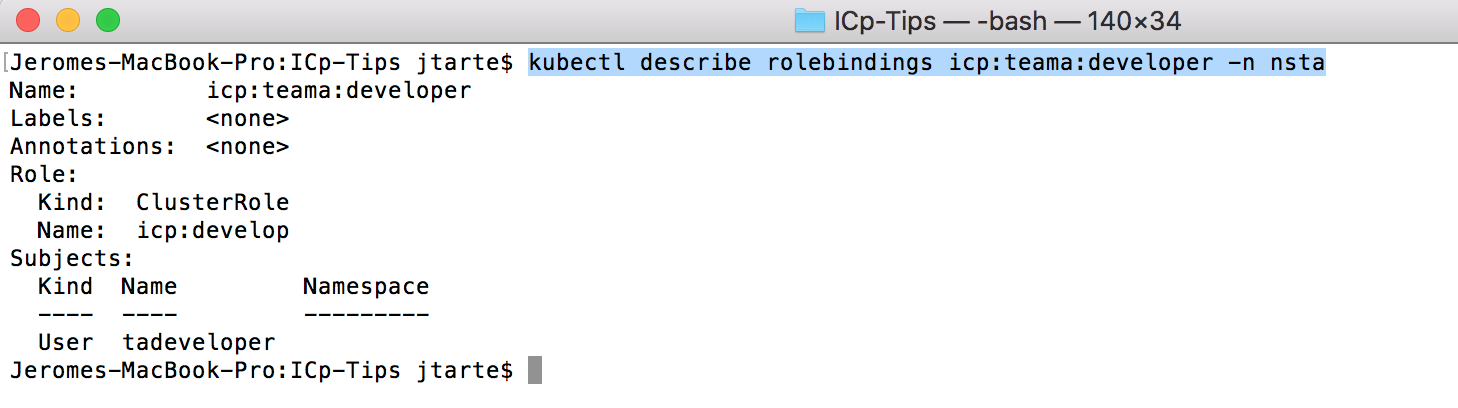
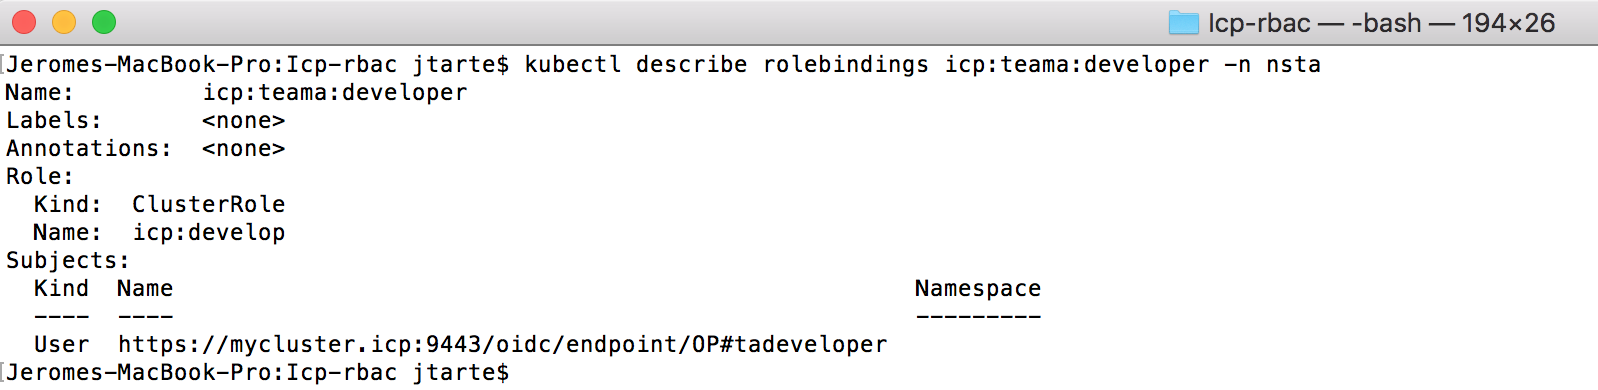
update permission proc

diff --git a/RBAC/provide_additional_priviledges_to_user.md b/RBAC/provide_additional_priviledges_to_user.md
@@ -1,10 +1,10 @@
-# Provide additional priviledges to an user
+# Provide additional permissions to an user
 
-IBM Cloud private (and Kubernetes) comes with a RBAC mechanism. So the users of the plaform have some priviledges, depending of their profiles.
-If, for some functional reasons, you need to grant additional priviledges to an user, it is possible by using roles (`clusterroles` or `roles) and binding (`clusterrolebindings` and `rolebindings`).
+IBM Cloud private (and Kubernetes) comes with a RBAC mechanism. So the users of the platform have some permissions, depending of their profiles.
+If, for some functional reasons, you need to grant additional permissions to an user, it is possible by using roles (`clusterroles` or `roles) and binding (`clusterrolebindings` and `rolebindings`).
 
 In this entry, I cover the functional case where
-a developer needs to push images in the ICp image registry but have no other priviledges on ICp platorm except the view.
+a developer needs to push images in the ICp image registry but have no other permissions on ICp platform except the view.
 
 1. Create an user with `viewer` profile.
 ![Users from team view](./images/rbac_add_priviledges_1.png)
@@ -17,14 +17,14 @@ a developer needs to push images in the ICp image registry but have no other pri
   metadata:
     name: icp:develop
     labels:
-        kubernetes.io/bootstrapping: rbac-defaults
-        rbac.icp.com/aggregate-to-icp-view: "true"
+      kubernetes.io/bootstrapping: rbac-defaults
   rules:
   - apiGroups: ["icp.ibm.com"]
     resources: ["images"]
-    verbs: ["create", "get", "list", "patch", "update", "watch", "delete"]
+    verbs: ["create", "get", "list", "patch", "update", "watch"]
+
   ```
-  The new cluster role,named `icp:develop` is an aggreation of cluster role `icp:view` and the new priviledges added on top the `icp:view` cluster role
+  The new cluster role,named `icp:develop` provide permission on images (ìmages.icp.ibm.come) except `delete permissions
 
 3. Create the new `clusterroles`.
 ```
@@ -38,9 +38,10 @@ kubectl get clusterrolebindings
 
 5. Create the role binding for `tadeveloper`on clusterroles `icp:develop`.
 ```
-kubectl create rolebinding icp:teama:developer --clusterole=icp:develop --user=tadeveloper --namespace=nsta
+kubectl create rolebinding icp:teama:developer --clusterole=icp:develop --user=https://mycluster.icp:9443/oidc/endpoint/OP#tadeveloper --namespace=nsta
 ```
 ![role binding](./images/rbac_add_priviledges_4.png)
+  The name of user is not the id used for the login but the oidc endpoint name. In this sample, tadeveloper has, as name, `https://mycluster.icp:9443/oidc/endpoint/OP#tadeveloper`.
 
 6. Check the role binding on your target namespace.
 ```
@@ -49,9 +50,10 @@ kubectl describe rolebindings icp:teama:developer -n nsta
 ![role description](./images/rbac_add_priviledges_5.png)
 
 7. verify that `tadeveloper could now push images on the ICp image registry.
-![pushing images](./images/rbac_add_priviledges_6.png)
+![pushing images](./images/rbac_add_priviledges_7.png)
 
 Basically, as tadeveloper was created as a viewer, he could not initially push images to the registry. But by binding him to the `icp:develop` cluster role in his namespace `nsta`, he could now push images to namespace `nsta`.
+User taviewer could not push image as the user is not bind to the clusterrole `icp:develop`
 
 
-In this sample, I created a cluster roles in order to be able to reuse this role in several in namespace across the cluster. But the binding is done at role level in order to limit the new priviledges to the target namespace. If, in another namespace, I need similar `icp:developer`priviledges, I could do the binding at the new namespace level.  
+In this sample, I created a cluster roles in order to be able to reuse this role in several in namespace across the cluster. But the binding is done at role level in order to limit the new permissions to the target namespace. If, in another namespace, I need similar `icp:develop` permissions, I could do the binding at the new namespace level.  

diff --git a/README.md b/README.md
@@ -26,7 +26,7 @@ This repository contains different tips an recipes related to IBM Cloud private(
 * [Pulling images from a remote secure registry](./Docker/use_remote_secure_registry.md)
 
 #### RBAC
-* [Add extra priviledges to an user](./RBAC/provide_additional_priviledges_to_user.md)
+* [Add extra permissions to an user](./RBAC/provide_additional_priviledges_to_user.md)
 
 #### DevOps
 * [First steps with Jenkins on IBM Cloud private](./DevOps/my_first_steps_jenkins_icp.md)
